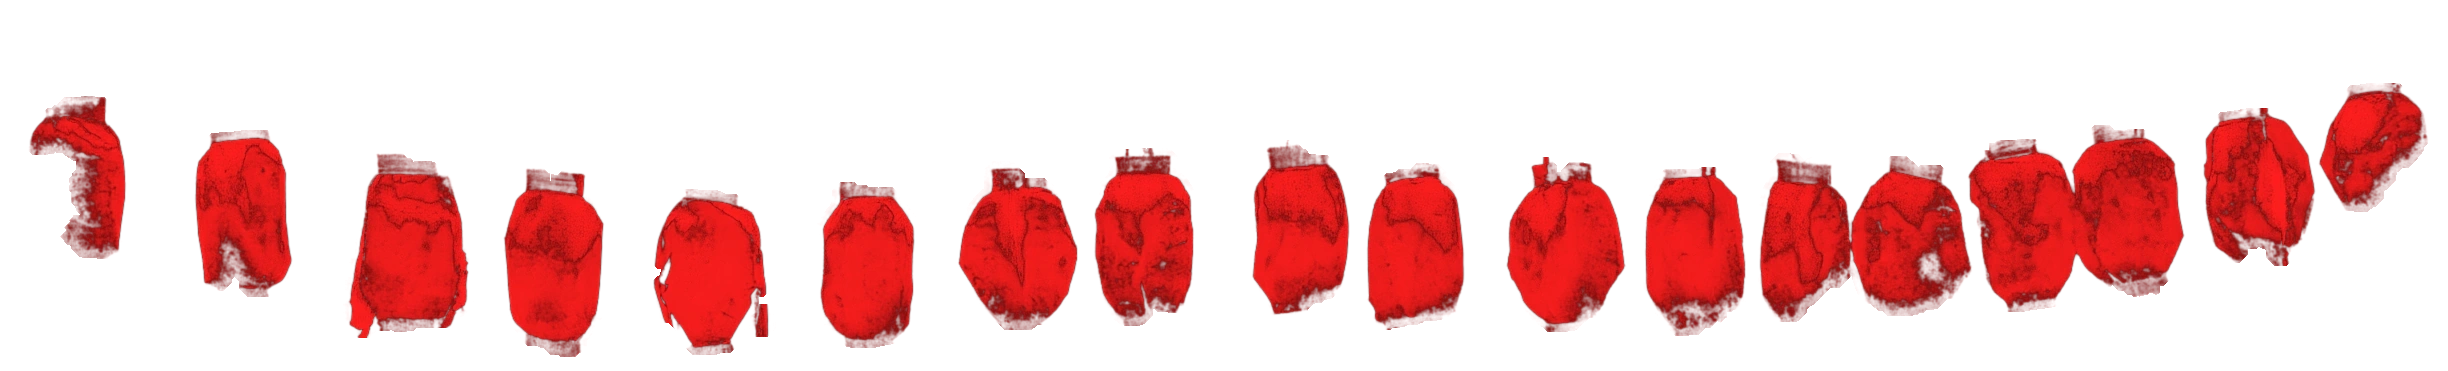
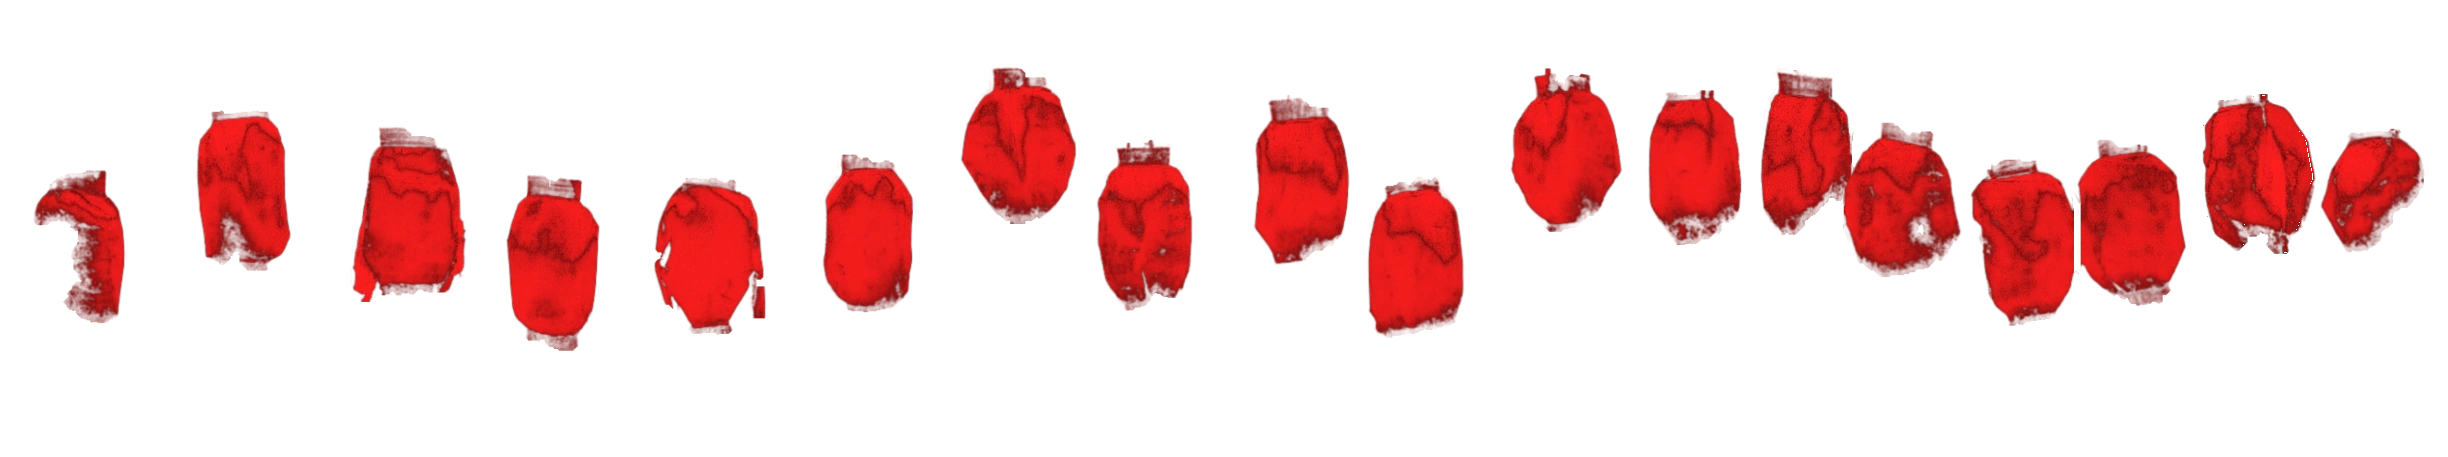
灯笼图：按旧排布用原图逐盏重做（更清晰，位置不变）
Claude-Session: https://claude.ai/code/session_01WvX51nbkJSoqP7cjdirpLZ

diff --git a/CLAUDE.md b/CLAUDE.md
@@ -301,4 +301,5 @@ npm run dev:pages                             # 正式部署的路径（Pages+Wo
 
 ## 7.20 灯笼图重做（2026-10-06）
 
-- 用户重发了原图（2448×496，黑底、红青灯笼 + 顶部吊绳）。`lantern-dark/light.webp` 用它重做：黑→透明（alpha 按亮度、颜色反预乘），只保留灯笼本体（连通域筛选 + 开运算，去掉顶绳、吊线、流苏和残线），宽度 2448（原 1800），lossy q95 + alpha 无损，约 230KB / 180KB。浅色版 = 同形状纯红。画布顶部不裁，手机 `margin-top:-12.6vw` 对齐沿用（最左几盏顶边约在图宽 4%，和旧图一致）。灯笼排列比旧图多 3 盏（20 盏）、顺序不同，因为旧图来源不同。
+- 用户重发了原图（2448×496，18 盏灯笼 + 顶部吊绳）。`lantern-dark/light.webp` 现在是**逐盏抠出原图灯笼，按旧图（d24f31e 版）每盏的位置/大小摆回去**（旧图和原图是同样 18 盏、同样顺序，只是摆位不同），画布 2448×457（旧图 1800×336 的 1.36 倍），所以布局、手机对齐（`margin-top:-12.6vw`）全部不变，只是更清晰、没有吊绳/线头/流苏。浅色版 = 同形状纯红。
+- 第一版（直接去绳、保持原图排布）被用户否决：她要的是旧图的排布。
